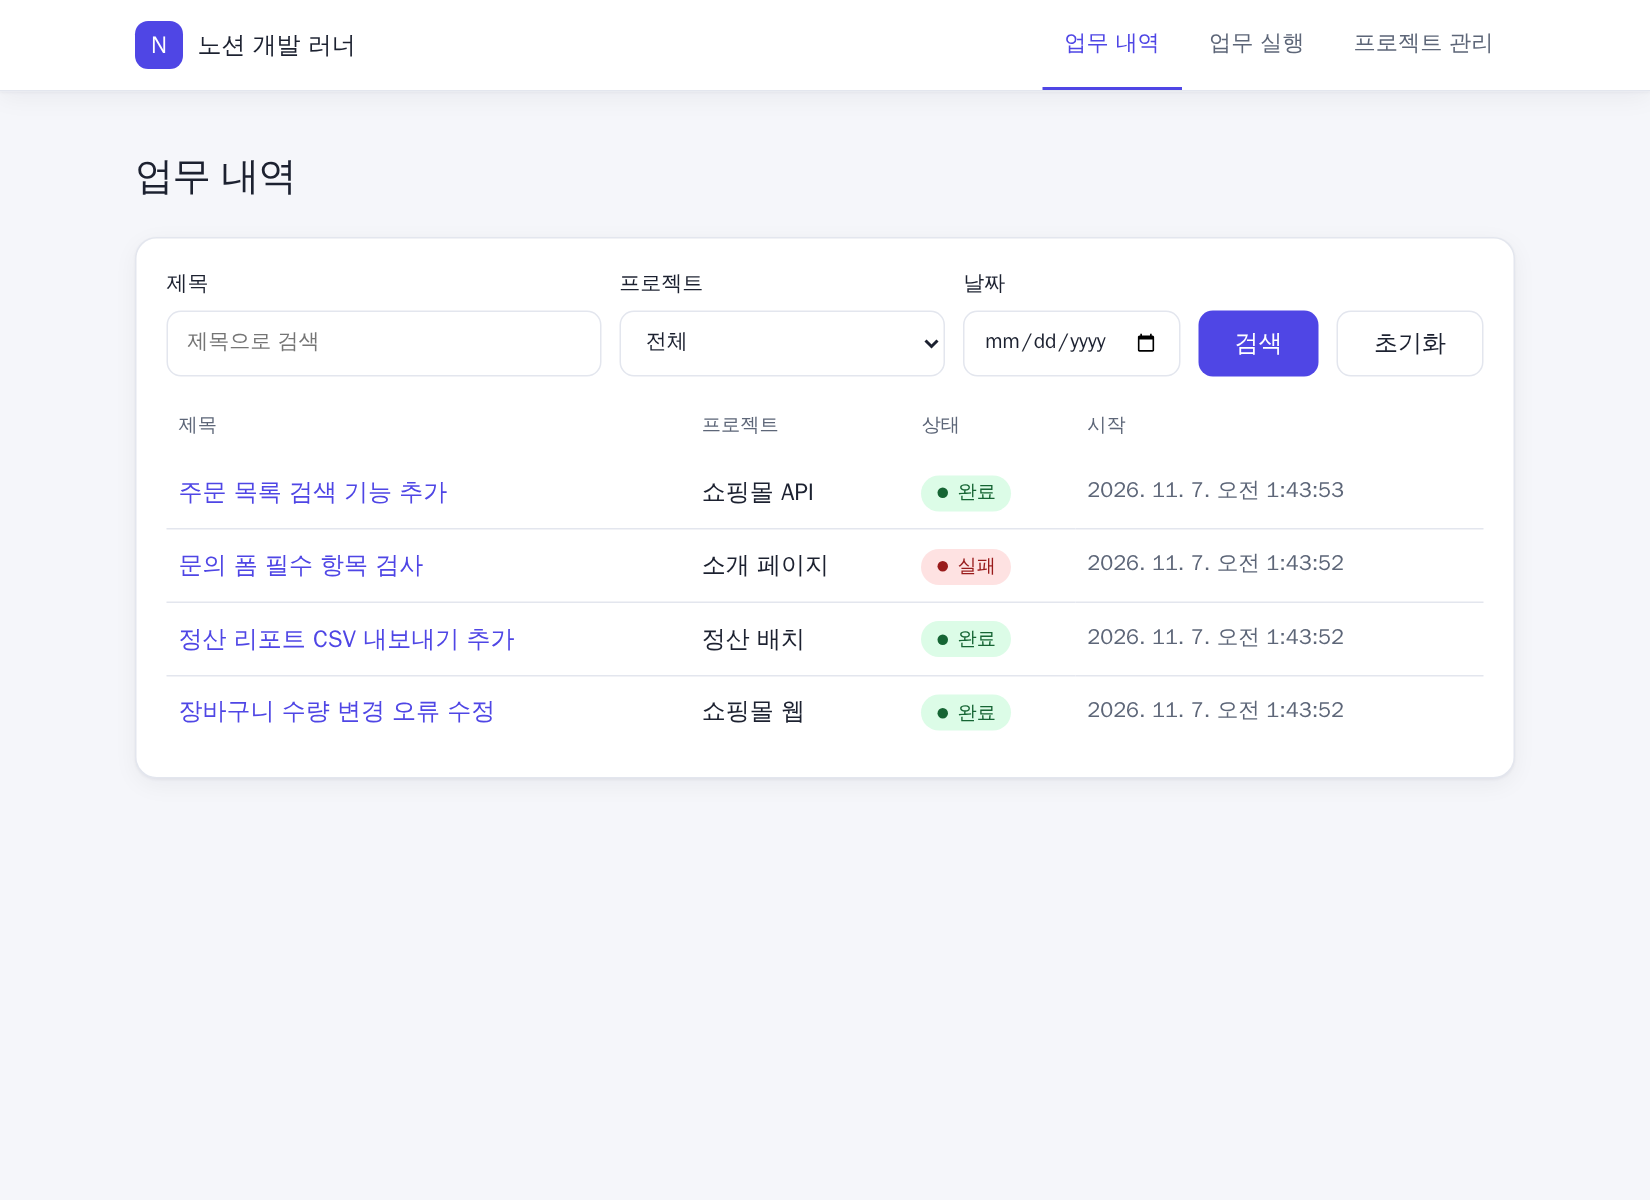
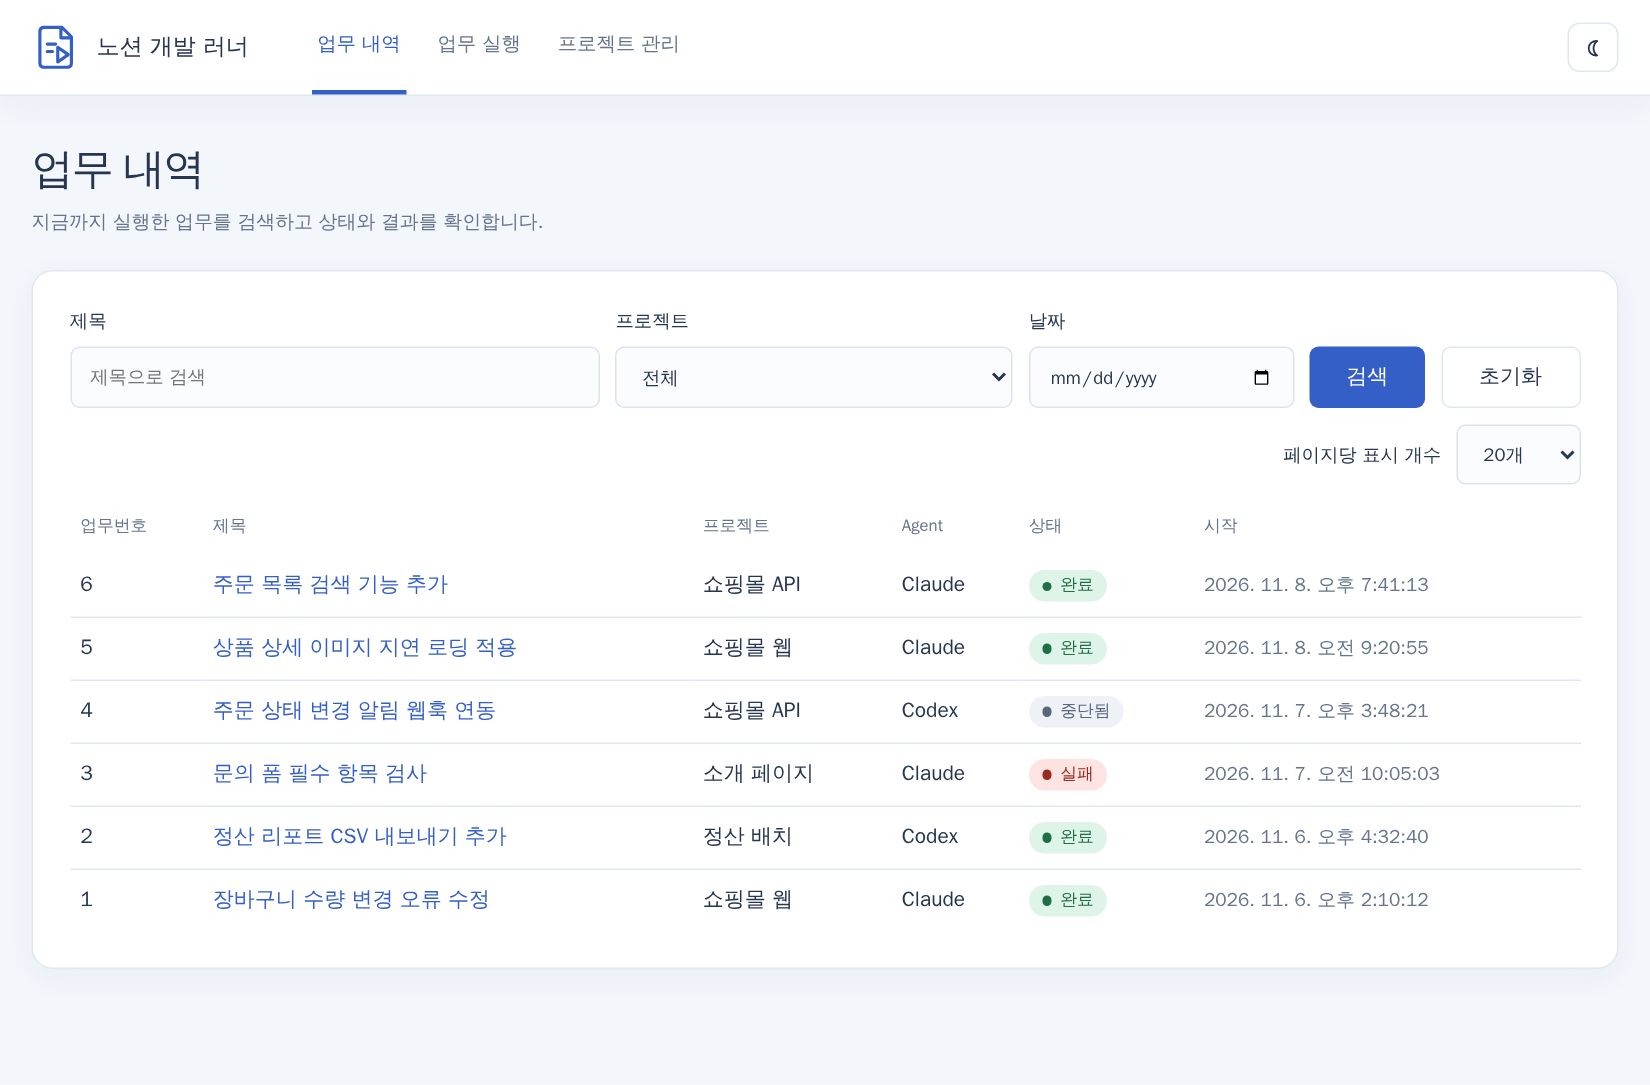
README 스크린샷을 현재 화면으로 교체
실행 Agent 선택, 사용 토큰, 도구 묶음 표시, 업무번호·Agent 열, 프로젝트 카드 보드가 보이도록 네 화면을 다시 찍고 이미지 설명을 맞춤

diff --git a/README.md b/README.md
@@ -2,7 +2,7 @@
 
 노션 문서에 할 일을 적고 프로젝트와 링크만 입력하면, Claude Code가 새 브랜치에서 개발하고 수정사항을 그 문서에 정리해 주는 개인용 로컬 웹 도구입니다.
 
-![업무 실행 화면: 프로젝트 선택, 노션 링크와 업무 내용 입력, 작업 시간 막대, 실시간 로그](docs/screenshots/execute.png)
+![업무 실행 화면: 프로젝트와 실행 Agent 선택, 노션 링크와 업무 내용 입력, 작업 시간 막대와 사용 토큰, 실시간 로그](docs/screenshots/execute.png)
 
 > 스크린샷의 프로젝트와 작업은 설명을 위한 가상 데이터입니다.
 
@@ -63,9 +63,9 @@ docker compose up -d --build
 
 ## 업무 내역
 
-![업무 내역 화면: 제목, 프로젝트, 날짜 검색과 작업 목록](docs/screenshots/runs.png)
+![업무 내역 화면: 제목, 프로젝트, 날짜 검색과 업무번호, Agent, 상태가 표시된 작업 목록](docs/screenshots/runs.png)
 
-![작업 상세 화면의 자세히 보기: 도구별 작업 시간 막대, 프로젝트, 브랜치, 노션 링크, 시작과 종료 시각, 작업 로그](docs/screenshots/run-detail.png)
+![작업 상세 화면의 자세히 보기: 도구별 작업 시간 막대, 프로젝트, 실행 Agent, 브랜치, 노션 링크, 시작과 종료 시각, 작업 로그](docs/screenshots/run-detail.png)
 
 실행한 작업은 SQLite DB에 저장되어 첫 화면인 `업무 내역`에 페이지당 기본 20건씩 프로젝트(별칭이 있으면 별칭), Agent(Claude 또는 Codex), 상태(대기 중, 실행 중, 완료, 실패, 중단됨)와 함께 표시되며, 제목, 프로젝트, 시작 날짜로 검색할 수 있습니다. 목록 위의 `페이지당 표시 개수`에서 10·20·50·100건을 선택할 수 있으며, 변경하면 검색 조건을 유지한 채 첫 페이지로 이동합니다. 제목은 Claude가 마지막 응답에 적은 작업 요약이고, 요약이 없으면(실행 중이거나 이전 기록) `프로젝트 · 브랜치`로 표시됩니다. 제목을 누르면 브랜치, 노션 링크, 입력한 업무 내용, 시작·종료 시각과 작업 로그를 볼 수 있습니다. 작업을 끝까지 마치면 Claude가 노션 페이지의 `상태` 속성을 `완료`로 바꿉니다. 서버가 작업 도중 종료되면 그 작업과 대기 중이던 작업은 다음 실행 때 `중단됨`으로 바뀝니다. 상세 화면에서 `자세히`를 고르면 도구 호출마다 걸린 시간이 막대로 표시됩니다(진행 중은 노란색, 완료는 초록색). 각 막대는 그 도구를 부른 때부터 다음 도구를 부를 때까지(마지막은 작업이 끝날 때까지)이고, 첫 도구 전의 시간은 `시작 준비`로 따로 표시되므로 막대 시간을 모두 더하면 `전체` 시간과 같습니다. 실시간 로그와 막대의 도구 이름은 `파일 읽기`, `명령 실행`, `노션 페이지에 내용 추가`처럼 쉬운 한글로 표시됩니다. `명령 실행`은 실행한 명령 대신 Claude가 적은 짧은 명령 설명(40자까지, 설명이 없으면 생략)을 함께 보여 줍니다. 로그에서 같은 도구를 연달아 부르면 `[도구] 명령 실행 ×3`처럼 한 줄로 묶고 각 실행 내용을 그 아래에 나열하며, 중간에 다른 내용이 끼면 따로 묶습니다. `작업 시간` 막대도 같은 도구를 연달아 부르면 `명령 실행 ×6`처럼 한 줄로 묶어 그 구간 전체를 표시합니다. `업무 실행` 화면의 `작업 시간` 카드에도 같은 막대가 실시간으로 나옵니다.
 
@@ -79,7 +79,7 @@ DB 위치는 `RUNNER_DB` 환경 변수로 정하며, 기본값은 이 폴더의 
 
 ## 프로젝트 관리
 
-![프로젝트 관리 화면: 그룹 추가와 삭제, 폴더별 별칭과 그룹 선택](docs/screenshots/projects.png)
+![프로젝트 관리 화면: 그룹별 열에 놓인 프로젝트 카드, 최근 상태와 업무 수, 새 그룹 추가](docs/screenshots/projects.png)
 
 상단 메뉴의 `프로젝트 관리`를 누르면 별도 페이지(`/projects`)가 열립니다. 여기서 그룹을 추가·삭제하고, 폴더마다 별칭(50자 이내)을 적고 그룹을 선택합니다. 프로젝트 선택 목록은 그룹별로 묶여 별칭으로 표시되고, 그룹이 없으면 `미분류`에 들어갑니다. 그룹은 쓰는 프로젝트가 없어도 남아 있으며, 삭제하면 그 그룹의 프로젝트는 `미분류`로 옮겨집니다. 그룹 이름은 50자 이내이고 `미분류`는 쓸 수 없습니다. 실행에는 계속 실제 폴더명을 씁니다.
 
